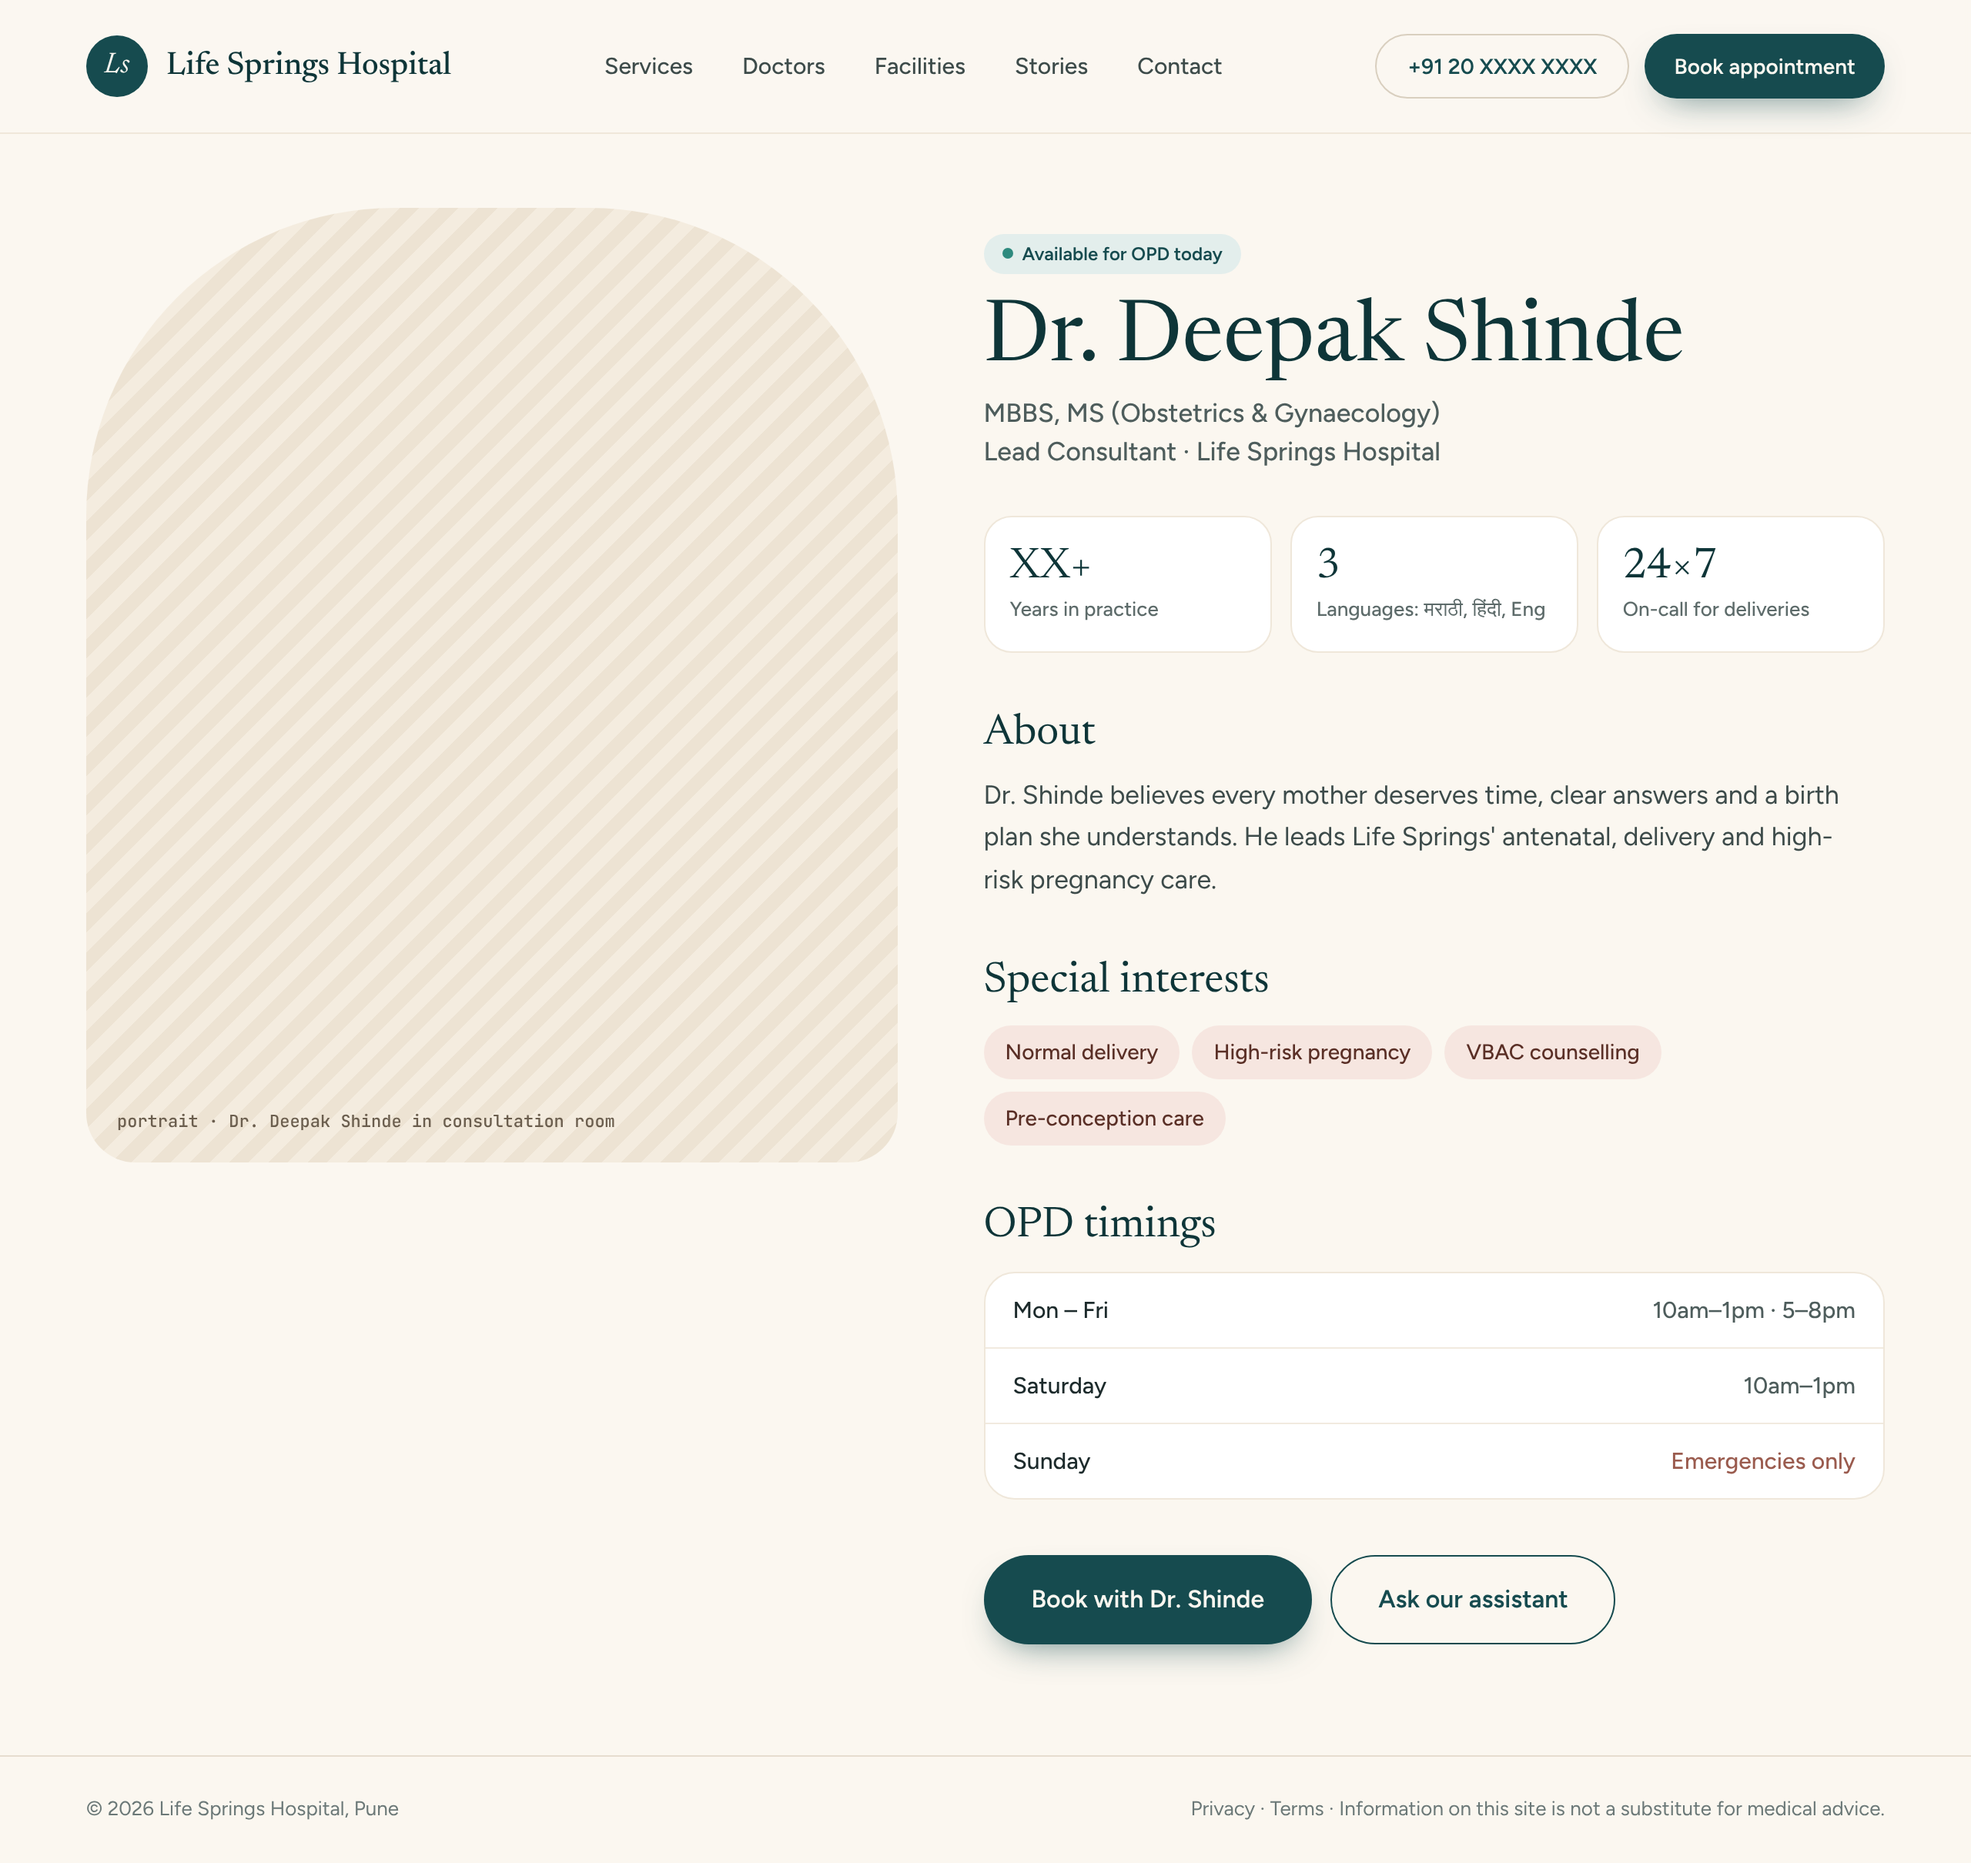
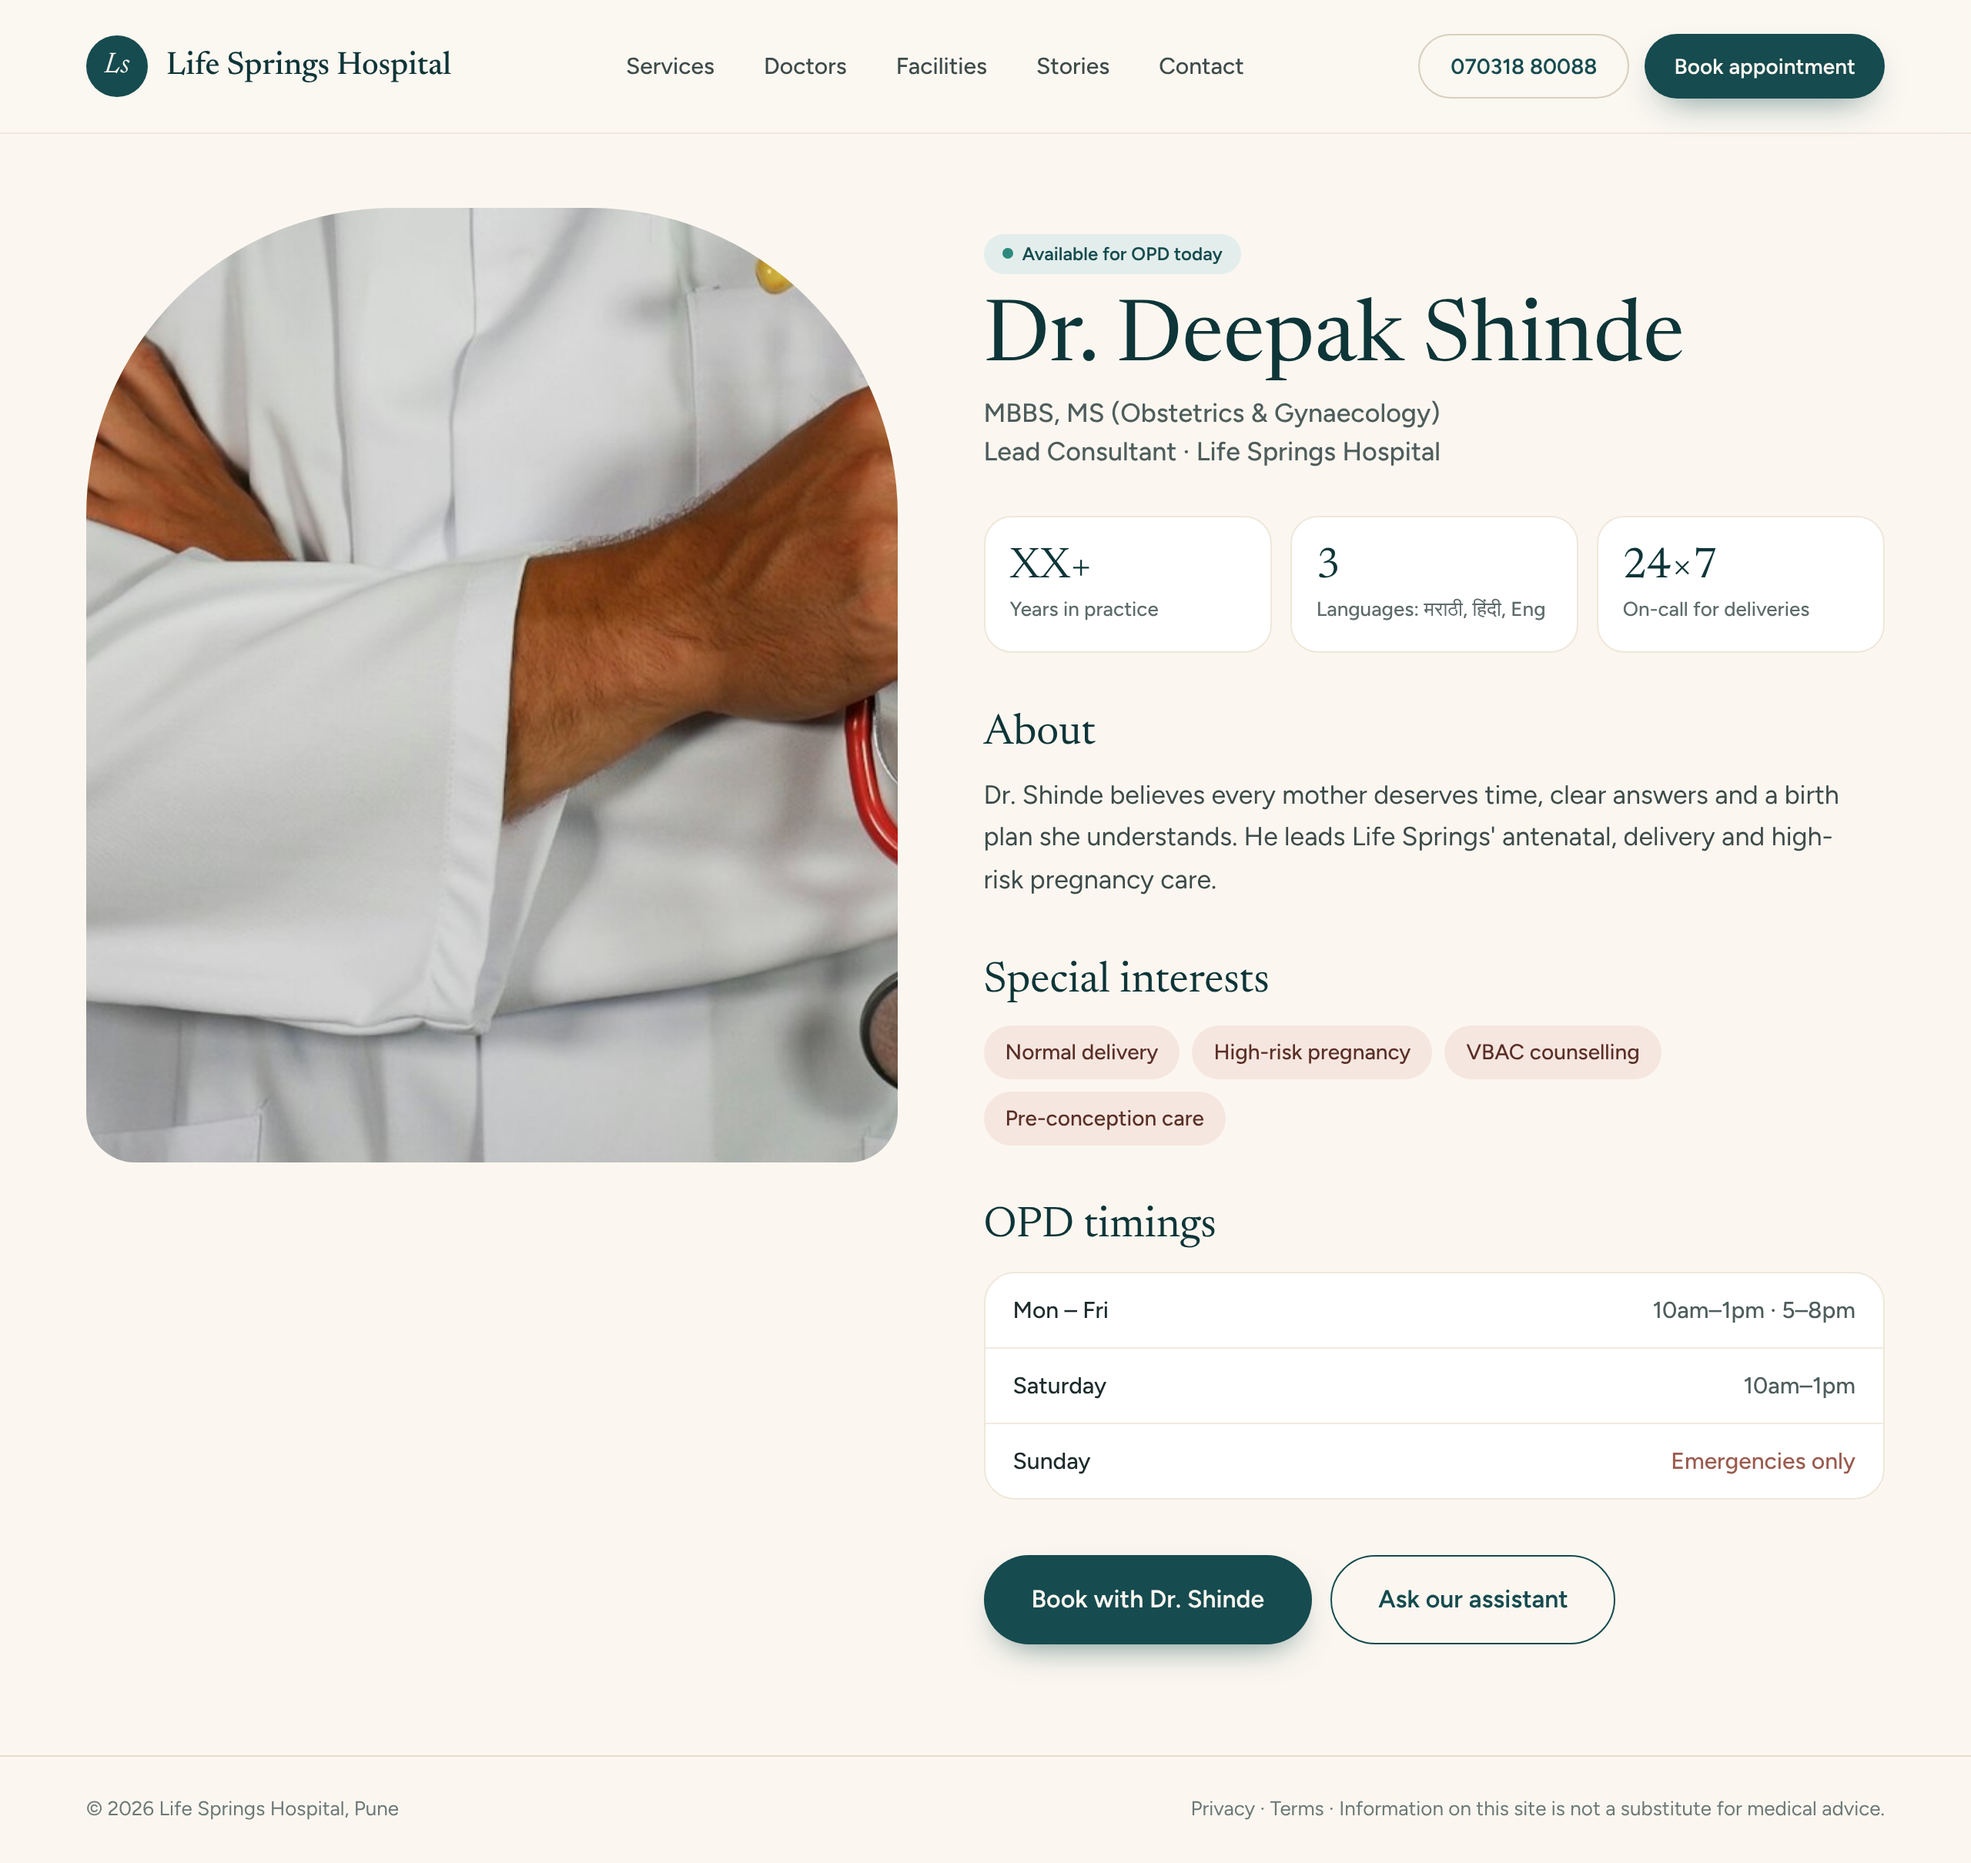
Add temporary stock photos from Unsplash
Fill the hero, doctor and facility photo slots with free Unsplash images
(credits in docs/IMAGE_CREDITS.md). The doctor photo shows no face so a
stranger is not presented as Dr. Shinde. PhotoSlot now takes an image
with alt text and falls back to the striped placeholder without one.
Screenshots refreshed.

Claude-Session: https://claude.ai/code/session_01NWLtyDTtiiNpvRUc8nwXrr

diff --git a/src/pages/Home.tsx b/src/pages/Home.tsx
@@ -6,6 +6,7 @@ import { Button } from '../components/ui/Button';
 import { Eyebrow } from '../components/ui/Eyebrow';
 import { MapEmbed } from '../components/ui/MapEmbed';
 import { PhotoSlot } from '../components/ui/PhotoSlot';
+import { IMAGES } from '../data/images';
 import { DOCTOR, FACILITIES, FEATURED_STORY, HOSPITAL, SERVICES, TESTIMONIALS } from '../data/hospital';
 import './Home.css';
 
@@ -53,7 +54,7 @@ export function Home() {
           </div>
 
           <div className="hero__media">
-            <PhotoSlot className="hero__photo" label="photo · mother & newborn skin-to-skin, natural light">
+            <PhotoSlot className="hero__photo" label="photo · mother & newborn skin-to-skin, natural light" image={IMAGES.hero} eager>
               <div className="hero__badge only-mobile">
                 <div className="hero__badge-value">24 × 7</div>
                 <div className="hero__badge-label">Labour ward &amp; NICU</div>
@@ -100,7 +101,7 @@ export function Home() {
         {/* Doctor */}
         <section className="container">
           <div className="doc-feature">
-            <PhotoSlot tone="teal" className="doc-feature__photo" label={`portrait · ${DOCTOR.name}, warm smile`} />
+            <PhotoSlot tone="teal" className="doc-feature__photo" label={`portrait · ${DOCTOR.name}, warm smile`} image={IMAGES.doctor} />
             <div className="doc-feature__body">
               <Eyebrow tone="blush">
                 <span className="only-mobile-inline">Lead consultant</span>
@@ -135,7 +136,7 @@ export function Home() {
           <ul className="facilities">
             {FACILITIES.map((f) => (
               <li key={f.title} className="facility">
-                <PhotoSlot className="facility__photo" label={f.photo} />
+                <PhotoSlot className="facility__photo" label={f.photo} image={f.image} />
                 <h3 className="facility__title">{f.title}</h3>
                 <p className="facility__desc">{f.desc}</p>
               </li>

diff --git a/src/components/ui/PhotoSlot.tsx b/src/components/ui/PhotoSlot.tsx
@@ -4,23 +4,33 @@ import './PhotoSlot.css';
 type Props = {
   /** Describes the photo that belongs here; shown as a caption until a real image is supplied. */
   label: string;
-  src?: string;
+  /** A real photo for this slot; when given, the caption placeholder is not shown. */
+  image?: { src: string; alt: string; position?: string };
   tone?: 'sand' | 'teal' | 'mint' | 'blush';
   className?: string;
   style?: CSSProperties;
   labelPosition?: 'bottom' | 'top';
+  /** Load immediately (for photos visible on first paint, like the hero). */
+  eager?: boolean;
   children?: ReactNode;
 };
 
 /**
- * Image slot. Until real maternity/newborn photography is supplied, renders the
- * striped placeholder from the design with a short art-direction caption.
+ * Image slot. Shows `image` when given; otherwise renders the striped
+ * placeholder from the design with a short art-direction caption.
  */
-export function PhotoSlot({ label, src, tone = 'sand', className = '', style, labelPosition = 'bottom', children }: Props) {
+export function PhotoSlot({ label, image, tone = 'sand', className = '', style, labelPosition = 'bottom', eager = false, children }: Props) {
   return (
-    <div className={`photo photo--${tone} ${className}`} style={style}>
-      {src ? (
-        <img className="photo__img" src={src} alt={label} />
+    <div className={`photo photo--${tone} ${image ? 'photo--filled' : ''} ${className}`} style={style}>
+      {image ? (
+        <img
+          className="photo__img"
+          src={image.src}
+          alt={image.alt}
+          loading={eager ? 'eager' : 'lazy'}
+          decoding="async"
+          style={image.position ? { objectPosition: image.position } : undefined}
+        />
       ) : (
         <span className={`photo__label photo__label--${labelPosition}`}>{label}</span>
       )}

diff --git a/src/data/images.ts b/src/data/images.ts
@@ -1,0 +1,26 @@
+/**
+ * Stock photography used until real hospital photos are available.
+ * All images are from Unsplash (https://unsplash.com/license — free for
+ * commercial use, no attribution required). See docs/IMAGE_CREDITS.md.
+ *
+ * To use real photos: replace the files in src/assets/images/ keeping the
+ * same names, or point these imports at new files.
+ */
+import doctor from '../assets/images/doctor.jpg';
+import deliverySuite from '../assets/images/facility-delivery-suite.jpg';
+import lactation from '../assets/images/facility-lactation.jpg';
+import nicu from '../assets/images/facility-nicu.jpg';
+import recoveryRoom from '../assets/images/facility-recovery-room.jpg';
+import heroMother from '../assets/images/hero-mother.jpg';
+
+export type SiteImage = { src: string; alt: string; position?: string };
+
+export const IMAGES = {
+  hero: { src: heroMother, alt: 'An expectant mother making a heart shape with her hands over her bump', position: '50% 55%' },
+  // Deliberately shows no face: it stands in for a named doctor until his real portrait is available.
+  doctor: { src: doctor, alt: 'A doctor in a white coat holding a stethoscope', position: '50% 40%' },
+  deliverySuite: { src: deliverySuite, alt: 'A clean, bright delivery room' },
+  recoveryRoom: { src: recoveryRoom, alt: 'A calm private room with a made bed' },
+  nicu: { src: nicu, alt: "A newborn's feet wrapped in a soft white towel" },
+  lactation: { src: lactation, alt: 'A newborn sleeping peacefully' },
+} satisfies Record<string, SiteImage>;

diff --git a/src/data/hospital.ts b/src/data/hospital.ts
@@ -1,3 +1,5 @@
+import { IMAGES } from './images';
+
 /**
  * Hospital details shown across the site.
  * Address and phone number are confirmed by the hospital.
@@ -66,10 +68,10 @@ export const SERVICES: Service[] = [
 ];
 
 export const FACILITIES = [
-  { title: 'Labour & delivery suites', desc: 'Calm, private, family-friendly.', photo: 'photo · birthing suite' },
-  { title: 'Private recovery rooms', desc: 'Rest with your baby beside you.', photo: 'photo · recovery room' },
-  { title: 'Level II NICU', desc: 'Round-the-clock newborn care.', photo: 'photo · NICU, soft light' },
-  { title: 'Lactation lounge', desc: 'Guidance from trained counsellors.', photo: 'photo · feeding lounge' },
+  { title: 'Labour & delivery suites', desc: 'Calm, private, family-friendly.', photo: 'photo · birthing suite', image: IMAGES.deliverySuite },
+  { title: 'Private recovery rooms', desc: 'Rest with your baby beside you.', photo: 'photo · recovery room', image: IMAGES.recoveryRoom },
+  { title: 'Level II NICU', desc: 'Round-the-clock newborn care.', photo: 'photo · NICU, soft light', image: IMAGES.nicu },
+  { title: 'Lactation lounge', desc: 'Guidance from trained counsellors.', photo: 'photo · feeding lounge', image: IMAGES.lactation },
 ];
 
 export type Testimonial = { quote: string; name: string; detail: string; tone: 'blush' | 'mint' | 'cream' };

diff --git a/src/components/ui/PhotoSlot.css b/src/components/ui/PhotoSlot.css
@@ -30,13 +30,33 @@
   object-fit: cover;
 }
 
+.photo--filled {
+  background: var(--ivory-200);
+}
+
+/* Keep overlays (badges, cards) above the photo */
+.photo--filled > :not(.photo__img) {
+  position: relative;
+  z-index: 1;
+}
+
 .photo__label {
   font: 500 10px/1.3 var(--font-mono);
   color: #6b5e4e;
 }
 
 @media (min-width: 900px) {
-  .photo__label {
+  .photo--filled {
+  background: var(--ivory-200);
+}
+
+/* Keep overlays (badges, cards) above the photo */
+.photo--filled > :not(.photo__img) {
+  position: relative;
+  z-index: 1;
+}
+
+.photo__label {
     font-size: 11px;
   }
 }
@@ -47,10 +67,30 @@
   left: 18px;
 }
 
-.photo--teal .photo__label {
+.photo--teal .photo--filled {
+  background: var(--ivory-200);
+}
+
+/* Keep overlays (badges, cards) above the photo */
+.photo--filled > :not(.photo__img) {
+  position: relative;
+  z-index: 1;
+}
+
+.photo__label {
   color: #a9c7c4;
 }
 
-.photo--mint .photo__label {
+.photo--mint .photo--filled {
+  background: var(--ivory-200);
+}
+
+/* Keep overlays (badges, cards) above the photo */
+.photo--filled > :not(.photo__img) {
+  position: relative;
+  z-index: 1;
+}
+
+.photo__label {
   color: #4f6664;
 }

diff --git a/src/pages/Doctor.tsx b/src/pages/Doctor.tsx
@@ -4,6 +4,7 @@ import { SiteHeader } from '../components/site/SiteHeader';
 import { BackButton } from '../components/ui/BackButton';
 import { Button } from '../components/ui/Button';
 import { PhotoSlot } from '../components/ui/PhotoSlot';
+import { IMAGES } from '../data/images';
 import { DOCTOR, HOSPITAL } from '../data/hospital';
 import './Doctor.css';
 
@@ -15,7 +16,7 @@ export function Doctor() {
       </div>
       <main className="doctor">
         <div className="doctor__media">
-          <PhotoSlot className="doctor__photo" label={`portrait · ${DOCTOR.name} in consultation room`} />
+          <PhotoSlot className="doctor__photo" label={`portrait · ${DOCTOR.name} in consultation room`} image={IMAGES.doctor} eager />
           <BackButton className="doctor__back only-mobile" />
           <div className="doctor__fade only-mobile" aria-hidden="true" />
         </div>

diff --git a/docs/IMAGE_CREDITS.md b/docs/IMAGE_CREDITS.md
@@ -1,0 +1,19 @@
+# Image credits
+
+The photos in `src/assets/images/` are **temporary stock images** from [Unsplash](https://unsplash.com),
+used under the [Unsplash License](https://unsplash.com/license) (free for commercial use, no
+attribution required). Replace them with the hospital's own photography before launch.
+
+| File | Used for | Unsplash image |
+| --- | --- | --- |
+| `hero-mother.jpg` | Home hero | `photo-1493894473891-10fc1e5dbd22` |
+| `doctor.jpg` | Dr. Shinde banner and profile (no face shown on purpose) | `photo-1532938911079-1b06ac7ceec7` |
+| `facility-delivery-suite.jpg` | Labour & delivery suites | `photo-1551076805-e1869033e561` |
+| `facility-recovery-room.jpg` | Private recovery rooms | `photo-1586105251261-72a756497a11` |
+| `facility-nicu.jpg` | Level II NICU | `photo-1555252333-9f8e92e65df9` |
+| `facility-lactation.jpg` | Lactation lounge | `photo-1544126592-807ade215a0b` |
+
+Each image is available at `https://images.unsplash.com/<Unsplash image>`.
+
+To swap in real photos, overwrite a file with the same name, or change the imports and alt text in
+`src/data/images.ts`.

diff --git a/README.md b/README.md
@@ -42,11 +42,12 @@ src/
   data/hospital.ts      hospital, doctor, services, facilities, testimonials copy
   data/assistant.ts     assistant's approved answers and conversation logic
   data/dashboard.ts     sample dashboard data
+  data/images.ts        photos used on the site, with alt text
   lib/api.ts            appointment submission stub — connect to the real backend here
 ```
 
 ## Before launch
 
 - Hospital address and phone number are real. Doctor credentials, email, timings and testimonials are still **placeholder copy** (`src/data/hospital.ts`).
-- Photos are striped placeholders with art-direction captions; pass `src` to `<PhotoSlot>` to use real photography.
+- Photos are temporary Unsplash stock images (`src/assets/images/`, credits in `docs/IMAGE_CREDITS.md`). Replace them with the hospital's own photos, especially Dr. Shinde's portrait.
 - `submitAppointmentRequest` (`src/lib/api.ts`) and the dashboard data are stubs.
